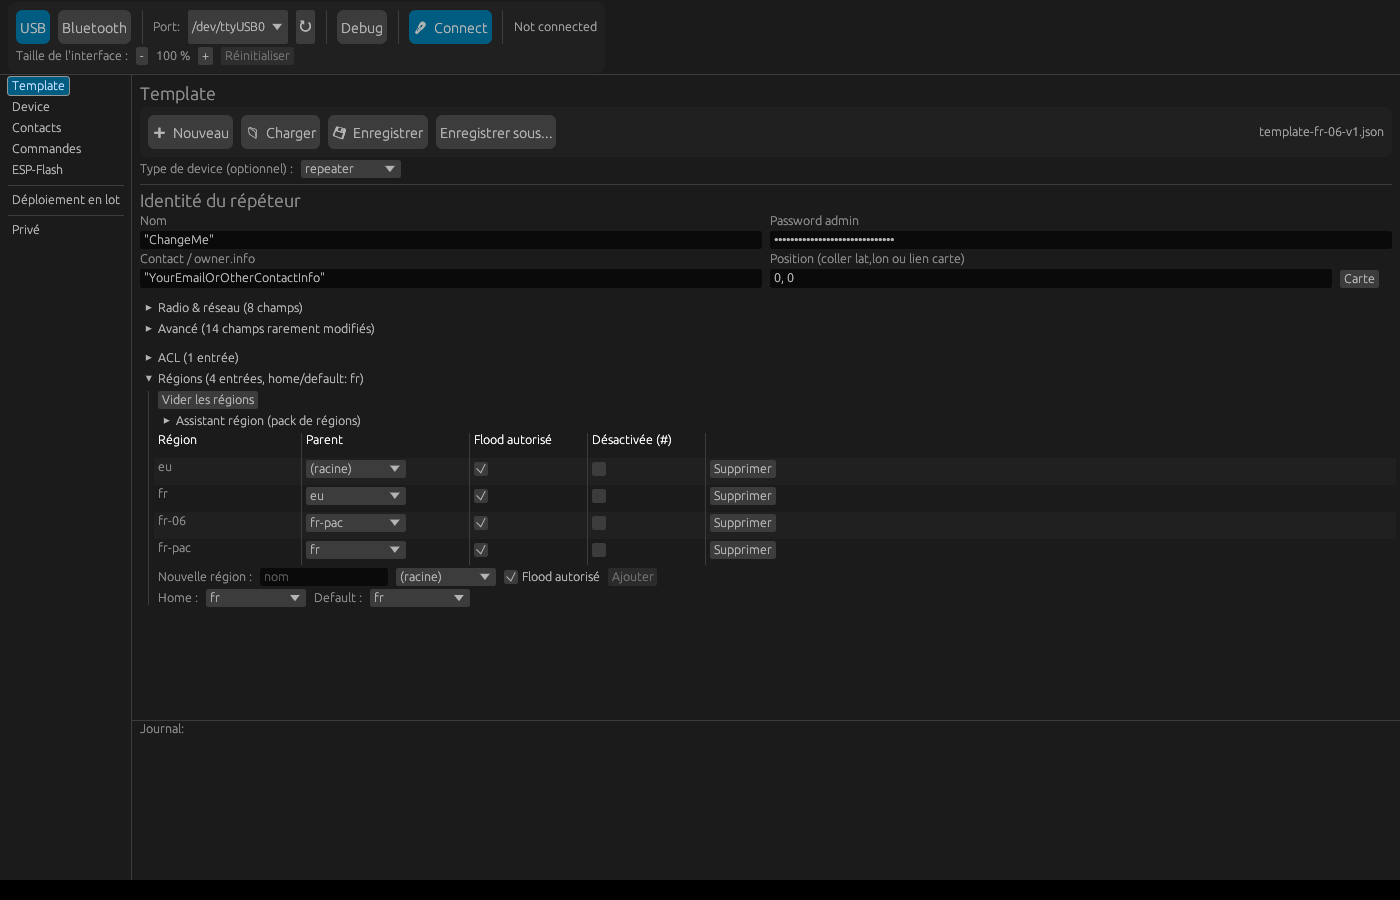
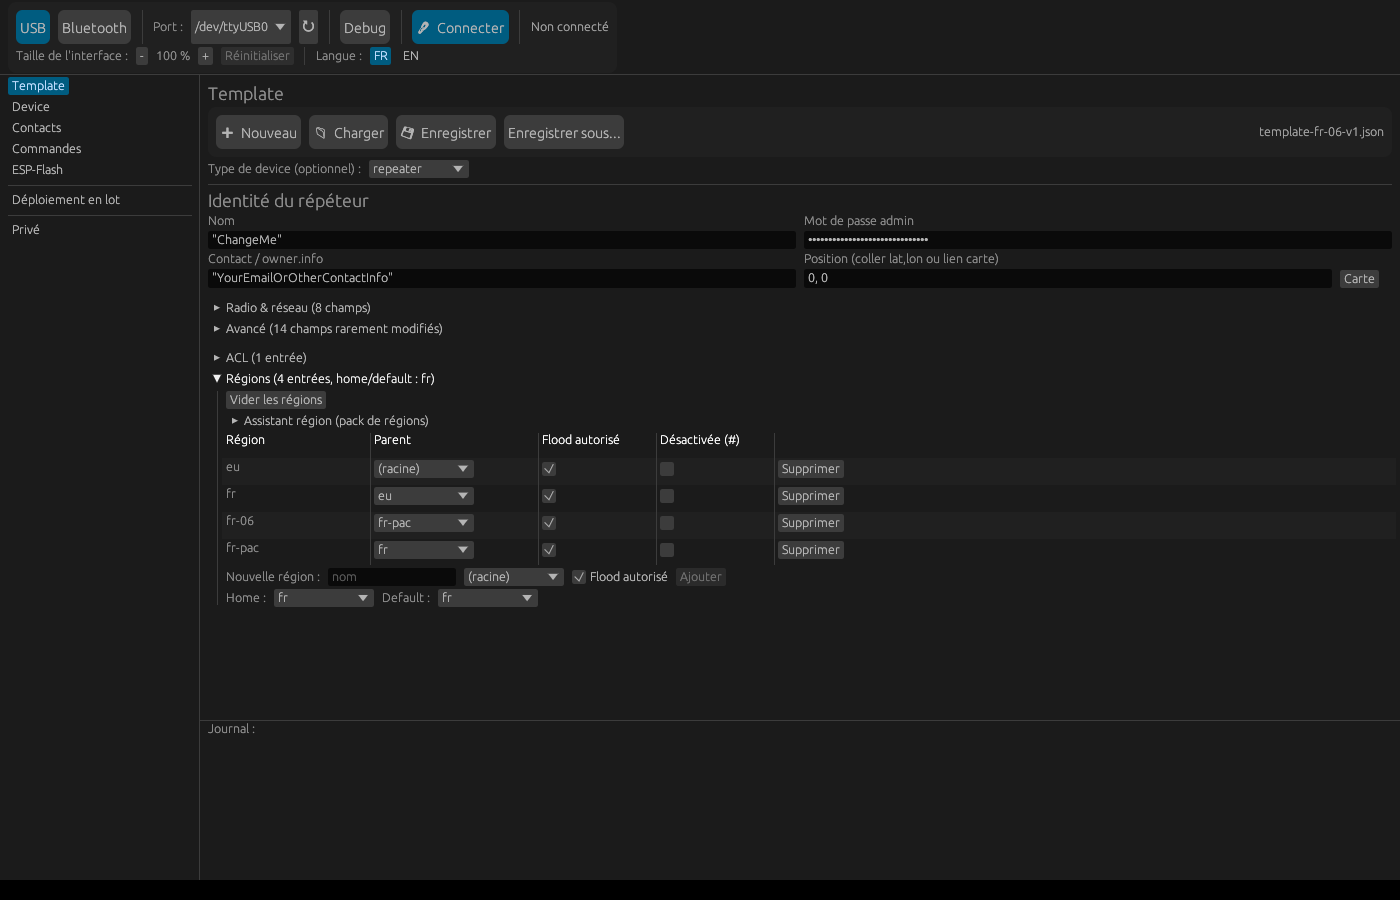
Doc v3.17.0 : README FR/EN, captures bilingues, pack Émirats renommé

diff --git a/README-en.md b/README-en.md
@@ -98,7 +98,7 @@ Once the port is selected, click **Connect**. The status switches to
 (in green), with the device type shown in parentheses (Sensor,
 Repeater, Room Server, or Companion).
 
-![Startup screen, before connecting](docs/screenshots/01-lancement.png)
+![Startup screen, before connecting](docs/screenshots/en/01-lancement.png)
 
 *(This screenshot also shows the automatic recall of the last template
 used — see step 4 — even before any connection: that's expected, the
@@ -111,9 +111,10 @@ is read automatically (no need to click "📄 Read" first) — each row of
 the table appears as it's read, rather than waiting for the whole
 read to finish. The action bar at the top of the tab groups **📄 Read**,
 **🔄 Compare against template**, **⬆ Write the diffs**,
-**⬇ Full dump** and **🔌 Restart** — five same-sized, icon buttons.
+**⬇ Full dump**, **📋 Device->Template** and **🔌 Restart** — six
+same-sized, icon buttons.
 
-![Device tab, with a template loaded](docs/screenshots/02-connecte-companion.png)
+![Device tab, with a template loaded](docs/screenshots/en/02-connecte-companion.png)
 
 *(Captured without an active connection — the table/ACL/Regions look the
 same once connected, with the "Device (read)" column filled in too.)*
@@ -156,6 +157,16 @@ value is remembered across launches. The `Ctrl +`/`Ctrl -`/`Ctrl 0`
 keyboard shortcuts (`Cmd` on macOS) do the same thing without touching
 the mouse.
 
+## Interface language
+
+The interface is available in **French** and **English**: an **FR**/**EN**
+selector on the same row as "Interface size" (top bar, visible on every
+tab). Switching is immediate, no restart needed, and the choice is
+remembered across launches (French by default). Only the interface itself
+is translated: the technical lines of the Log (same style as the CLI's
+output), device replies, low-level error messages and region-pack names
+stay as they are.
+
 ## The tabs
 
 - **Device** — described above: every attribute, comparison against a
@@ -169,10 +180,14 @@ the mouse.
   has its own **Mask (#)** checkbox to enable/disable it without hand-
   editing the file. Table columns can be resized by dragging their
   border (width remembered across launches, same as the Template tab).
-  An icon toolbar at the top groups the tab's five actions:
+  An icon toolbar at the top groups the tab's six actions:
   **📄 Read**, **🔄 Compare against template**, **⬆ Write the diffs**,
   **⬇ Full dump** (saves every attribute read so far to a JSON file, no
-  template needed) and **🔌 Restart** — useful after changing radio
+  template needed), **📋 Device->Template** (copies the device read into
+  the **Template** tab as a reusable base — e.g. for a batch deploy —
+  **without** the private/public key or the position; replaces the
+  current template, save it afterwards with **Save as...**) and
+  **🔌 Restart** — useful after changing radio
   parameters, which only take effect after a restart.
 
   **Row order**: a loaded template displays in exactly the order its
@@ -190,6 +205,17 @@ the mouse.
   key that isn't there yet. An enabled ACL entry is also applied by
   **Write the diffs**, just like any other field.
 
+  In **Remote (via LoRa)** mode, the full list (full public key) stays
+  unavailable — the firmware requires a direct serial connection for
+  that (`get acl`). A second grid appears instead: the access list
+  fetched via a dedicated binary request (the same one the official
+  Android app uses), one 12-character key *prefix* per row (never the
+  full key) with a per-row **Revoke** button — enough to remove an
+  entry, not to grant or change one (that needs the full key, via **New
+  ACL entry** above). The connected companion's own key is detected and
+  protected there ("⚠ this companion (local)", button disabled) —
+  revoking it would strip its own admin rights on the target.
+
   **Regions**: two indented trees side by side, **Device (read)** and
   **Template (desired)** — same layout as a CLI `region list`, with
   home/default marked (`^home`/`•default`) and one color per region
@@ -206,7 +232,7 @@ the mouse.
   panel — see the dedicated section below for the format and how to add
   a country.
 
-  The radio field is shown as two linked rows: **Preset radio** (an
+  The radio field is shown as two linked rows: **Radio preset** (an
   official regional preset name — Brazil, EU/UK (Narrow), USA/Canada...,
   23 in total) directly above **Radio** (the technical detail:
   frequency/bandwidth/SF/CR). Picking a preset fills in the Radio row;
@@ -246,7 +272,7 @@ the mouse.
   rather than a blank page where you'd have to guess field names),
   **📁 Load**, **💾 Save** and **Save as...**.
 
-  ![Template tab](docs/screenshots/05-template.png)
+  ![Template tab](docs/screenshots/en/05-template.png)
 
   The four most commonly edited fields — **Name**, **Admin password**
   (masked), **Contact / owner.info** and **Position** (one single
@@ -260,7 +286,7 @@ the mouse.
   public key) and **Regions** (parent/child tree, home/default). Each
   field can be toggled (`#`), edited, or deleted row by row; the order
   follows the loaded file, reorderable with **^ / v**. Like the Device
-  tab, the radio field is shown as two linked rows, **Preset radio** (23
+  tab, the radio field is shown as two linked rows, **Radio preset** (23
   official regional presets) and **Radio** (technical detail), synced
   both ways.
 
@@ -284,9 +310,9 @@ the mouse.
   direct connection — see the dedicated **🔌 Restart** button on the
   Device tab above for a restart that's correctly reported as
   successful) doesn't stop the rest — each line's result and the final
-  tally show up in the Journal.
+  tally show up in the Log.
 
-  ![Commands tab](docs/screenshots/06-commandes.png)
+  ![Commands tab](docs/screenshots/en/06-commandes.png)
 
   The **📋 Copy from Device diffs** button takes the fields that differ
   (computed in the Device tab via "Compare against template") and
@@ -308,7 +334,7 @@ the mouse.
   another on the same port, each getting the active template (Template
   tab) with just its own name/position.
 
-  ![Batch deploy tab](docs/screenshots/07-batch-deploy.png)
+  ![Batch deploy tab](docs/screenshots/en/07-batch-deploy.png)
 
   A queue builds either by generating a name-pattern series
   (**Generate series**, `RPT-{n}` + a count) or by importing a CSV in
@@ -343,7 +369,7 @@ the mouse.
   tool: never read from or written to a device, unlike the Contacts
   tab.
 
-  ![Private tab](docs/screenshots/08-prive.png)
+  ![Private tab](docs/screenshots/en/08-prive.png)
 
   **📁 Import**/**💾 Export** to a dedicated JSON file (import
   merges, never duplicating or overwriting an existing entry). Each
@@ -399,7 +425,7 @@ file...**, **Reload** after a manual edit). Forty-four packs ship in
 | `danemark.json` | 5 regions |
 | `finlande.json` | 19 regions |
 | `islande.json` | 8 regions |
-| `emirats-arabes-unis.json` | 7 emirates — its own `ae` root, not under `eu` (not in Europe) |
+| `united-arab-emirates.json` | 7 emirates (labels reviewed by a Dubai resident) — its own `ae` root, not under `eu` (not in Europe) |
 | `pologne.json` | 16 voivodeships |
 | `tchequie.json` | 13 regions + Prague |
 | `slovaquie.json` | 8 regions |
@@ -463,7 +489,13 @@ the three panels activates it everywhere.
 
 A companion (the device plugged in locally) can be configured
 directly — name, coordinates, radio, TX power, custom variables —
-that's **Local (this companion)** mode, active by default.
+that's **Local (this companion)** mode, active by default. On every
+connect (USB or Bluetooth), its internal clock is also compared to this
+computer's and pushed forward if it's behind (never backward) — visible
+in the Log ("companion clock resynced, was behind by...") — a
+companion whose clock was never set otherwise silently breaks every
+relayed command (the firmware rejects a timestamp that looks like it's
+from the past, without ever replying).
 
 If this companion is physically in range of **another** MeshCore
 device on the LoRa mesh (a repeater, room-server, or sensor), it can
@@ -473,8 +505,9 @@ mode:
 ![Target selector, Remote mode expanded](docs/screenshots/04-cible-distante.png)
 
 1. Pick a contact from the dropdown (already known to the companion —
-   auto-refreshed on connect, or via the ↻ button), or type a public
-   key manually.
+   auto-refreshed on connect, or via the ↻ button — contacts already in
+   the private directory float to the top of the list), or type a
+   public key manually.
 2. Enter the target device's admin password.
 3. **Connect to target** — this step is **slow** (a real LoRa radio
    round-trip, potentially tens of seconds): explicit text says so

diff --git a/README.md b/README.md
@@ -73,7 +73,7 @@ tout le monde.
 Le device se branche en USB (ou, pour un companion, peut aussi se
 retrouver en Bluetooth). Lancez `meshcore-cfg` sans argument : l'écran
 qui s'ouvre propose un choix **USB**/**Bluetooth**, un sélecteur de port
-(ou de nom Bluetooth), et un bouton **Connect**.
+(ou de nom Bluetooth), et un bouton **Connecter**.
 
 Pas besoin d'indiquer le type de device (répéteur, room-server, sensor ou
 companion) — le programme le détecte tout seul à la connexion.
@@ -91,8 +91,8 @@ companion) — le programme le détecte tout seul à la connexion.
 
 ### 2. Se connecter
 
-Une fois le port choisi, cliquez **Connect**. Le statut passe à
-*Connecting…* puis, une fois le type de device détecté, à *Connected*
+Une fois le port choisi, cliquez **Connecter**. Le statut passe à
+*Connexion…* puis, une fois le type de device détecté, à *Connecté*
 (en vert), avec le type de device entre parenthèses (Sensor, Repeater,
 Room Server, ou Companion).
 
@@ -109,8 +109,8 @@ automatiquement (pas besoin de cliquer sur « 📄 Lire » en premier) —
 chaque ligne du tableau apparaît au fur et à mesure de sa lecture,
 plutôt que d'attendre la fin de la lecture complète. La barre d'actions
 en haut de l'onglet regroupe **📄 Lire**, **🔄 Comparer au template**,
-**⬆ Écrire les écarts**, **⬇ Dump complet** et **🔌 Redémarrer** — cinq
-boutons de même taille, avec icône.
+**⬆ Écrire les écarts**, **⬇ Dump complet**, **📋 Device->Template** et
+**🔌 Redémarrer** — six boutons de même taille, avec icône.
 
 ![Onglet Device, avec template chargé](docs/screenshots/02-connecte-companion.png)
 
@@ -159,6 +159,17 @@ mémorisée d'un lancement à l'autre. Les raccourcis clavier `Ctrl +`/
 `Ctrl -`/`Ctrl 0` (`Cmd` sur macOS) font la même chose sans passer par la
 souris.
 
+## Langue de l'interface
+
+L'interface existe en **français** et en **anglais** : un sélecteur
+**FR**/**EN** sur la même ligne que « Taille de l'interface » (barre du
+haut, visible sur tous les onglets). Le changement est immédiat, sans
+redémarrage, et le choix est mémorisé d'un lancement à l'autre (français
+par défaut). Seule l'interface est traduite : les lignes techniques du
+Journal (même style que la sortie du CLI), les réponses des devices, les
+messages d'erreur bas niveau et les noms des packs de régions restent tels
+quels.
+
 ## Les onglets de l'interface
 
 - **Device** — décrit ci-dessus : tous les attributs, comparaison à un
@@ -173,10 +184,14 @@ souris.
   application sans éditer le fichier à la main. Les colonnes du tableau
   se redimensionnent en faisant glisser leur bordure (largeur mémorisée
   d'un lancement à l'autre, comme dans l'onglet Template). Une barre
-  d'outils à icônes regroupe les cinq actions de l'onglet :
+  d'outils à icônes regroupe les six actions de l'onglet :
   **📄 Lire**, **🔄 Comparer au template**, **⬆ Écrire les écarts**,
   **⬇ Dump complet** (enregistre dans un fichier JSON tous les
-  attributs lus jusqu'ici, sans avoir besoin d'un template) et
+  attributs lus jusqu'ici, sans avoir besoin d'un template),
+  **📋 Device->Template** (copie la lecture du device dans l'onglet
+  **Template** comme base réutilisable — par ex. pour un déploiement en
+  lot — **sans** clé privée/publique ni position ; remplace le template
+  en cours, à enregistrer ensuite via **Enregistrer sous...**) et
   **🔌 Redémarrer** — utile après un changement de paramètres radio, qui
   ne sont pris en compte qu'au redémarrage.
 
@@ -195,6 +210,18 @@ souris.
   pour ajouter une clé publique pas encore connue. Une entrée ACL non
   désactivée est aussi appliquée par **Écrire les écarts**,
   comme n'importe quel autre champ.
+
+  En mode **Distante (via LoRa)**, la liste complète (clé publique
+  intégrale) reste indisponible — le firmware l'exige en connexion série
+  directe (`get acl`). Une seconde grille apparaît à la place : la liste
+  des clients autorisés récupérée via une requête binaire dédiée (celle
+  qu'utilise l'app Android officielle), avec un préfixe de clé (12
+  caractères, pas la clé complète) par ligne et un bouton **Révoquer**
+  par ligne — suffisant pour retirer une entrée, pas pour en accorder ou
+  modifier une (ça exige la clé complète, via **Nouvelle entrée ACL**
+  ci-dessus). Le companion connecté lui-même y est repéré et protégé
+  (« ⚠ ce companion (local) », bouton désactivé) — le révoquer couperait
+  ses propres droits admin sur la cible.
 
   **Régions** : deux arbres indentés côte à côte, **Device (lu)** et
   **Template (voulu)** — même présentation qu'un `region list` en
@@ -419,7 +446,7 @@ après une modification manuelle). Quarante-quatre packs sont fournis dans
 | `danemark.json` | 5 régions |
 | `finlande.json` | 19 régions |
 | `islande.json` | 8 régions |
-| `emirats-arabes-unis.json` | 7 émirats — racine `ae` indépendante, pas rattachée à `eu` (hors Europe) |
+| `united-arab-emirates.json` | 7 émirats (libellés en anglais, relus par un résident de Dubaï) — racine `ae` indépendante, pas rattachée à `eu` (hors Europe) |
 | `pologne.json` | 16 voïvodies |
 | `tchequie.json` | 13 régions + Prague |
 | `slovaquie.json` | 8 régions |
@@ -484,7 +511,13 @@ partout.
 
 Un companion (le device branché en local) peut être configuré
 directement — nom, coordonnées, radio, TX power, variables custom — c'est
-le mode **Local (ce companion)**, actif par défaut.
+le mode **Local (ce companion)**, actif par défaut. À chaque connexion
+(USB ou Bluetooth), son horloge interne est aussi comparée à celle de
+cet ordinateur et remise à l'heure si elle est en retard (jamais en
+arrière) — visible dans le Journal (« horloge companion resynchronisée,
+était en retard de... ») : une horloge jamais réglée fait sinon échouer
+silencieusement toute commande relayée vers une cible (le firmware
+rejette un timestamp qui semble « dans le passé » sans répondre du tout).
 
 Si ce companion est physiquement à portée d'un **autre** device MeshCore
 sur le mesh LoRa (un répéteur, room-server ou sensor), il peut aussi
@@ -494,8 +527,9 @@ LoRa)** :
 ![Sélecteur de cible, mode Distante déplié](docs/screenshots/04-cible-distante.png)
 
 1. Choisir un contact dans la liste déroulante (déjà connus du companion
-   — rafraîchie automatiquement à la connexion, ou via le bouton ↻), ou
-   taper une clé publique manuellement.
+   — rafraîchie automatiquement à la connexion, ou via le bouton ↻ ;
+   les contacts déjà présents dans le répertoire privé remontent en
+   tête de liste), ou taper une clé publique manuellement.
 2. Entrer le mot de passe admin du device cible.
 3. **Se connecter à la cible** — cette étape est **lente** (un vrai
    aller-retour radio LoRa, potentiellement plusieurs dizaines de
